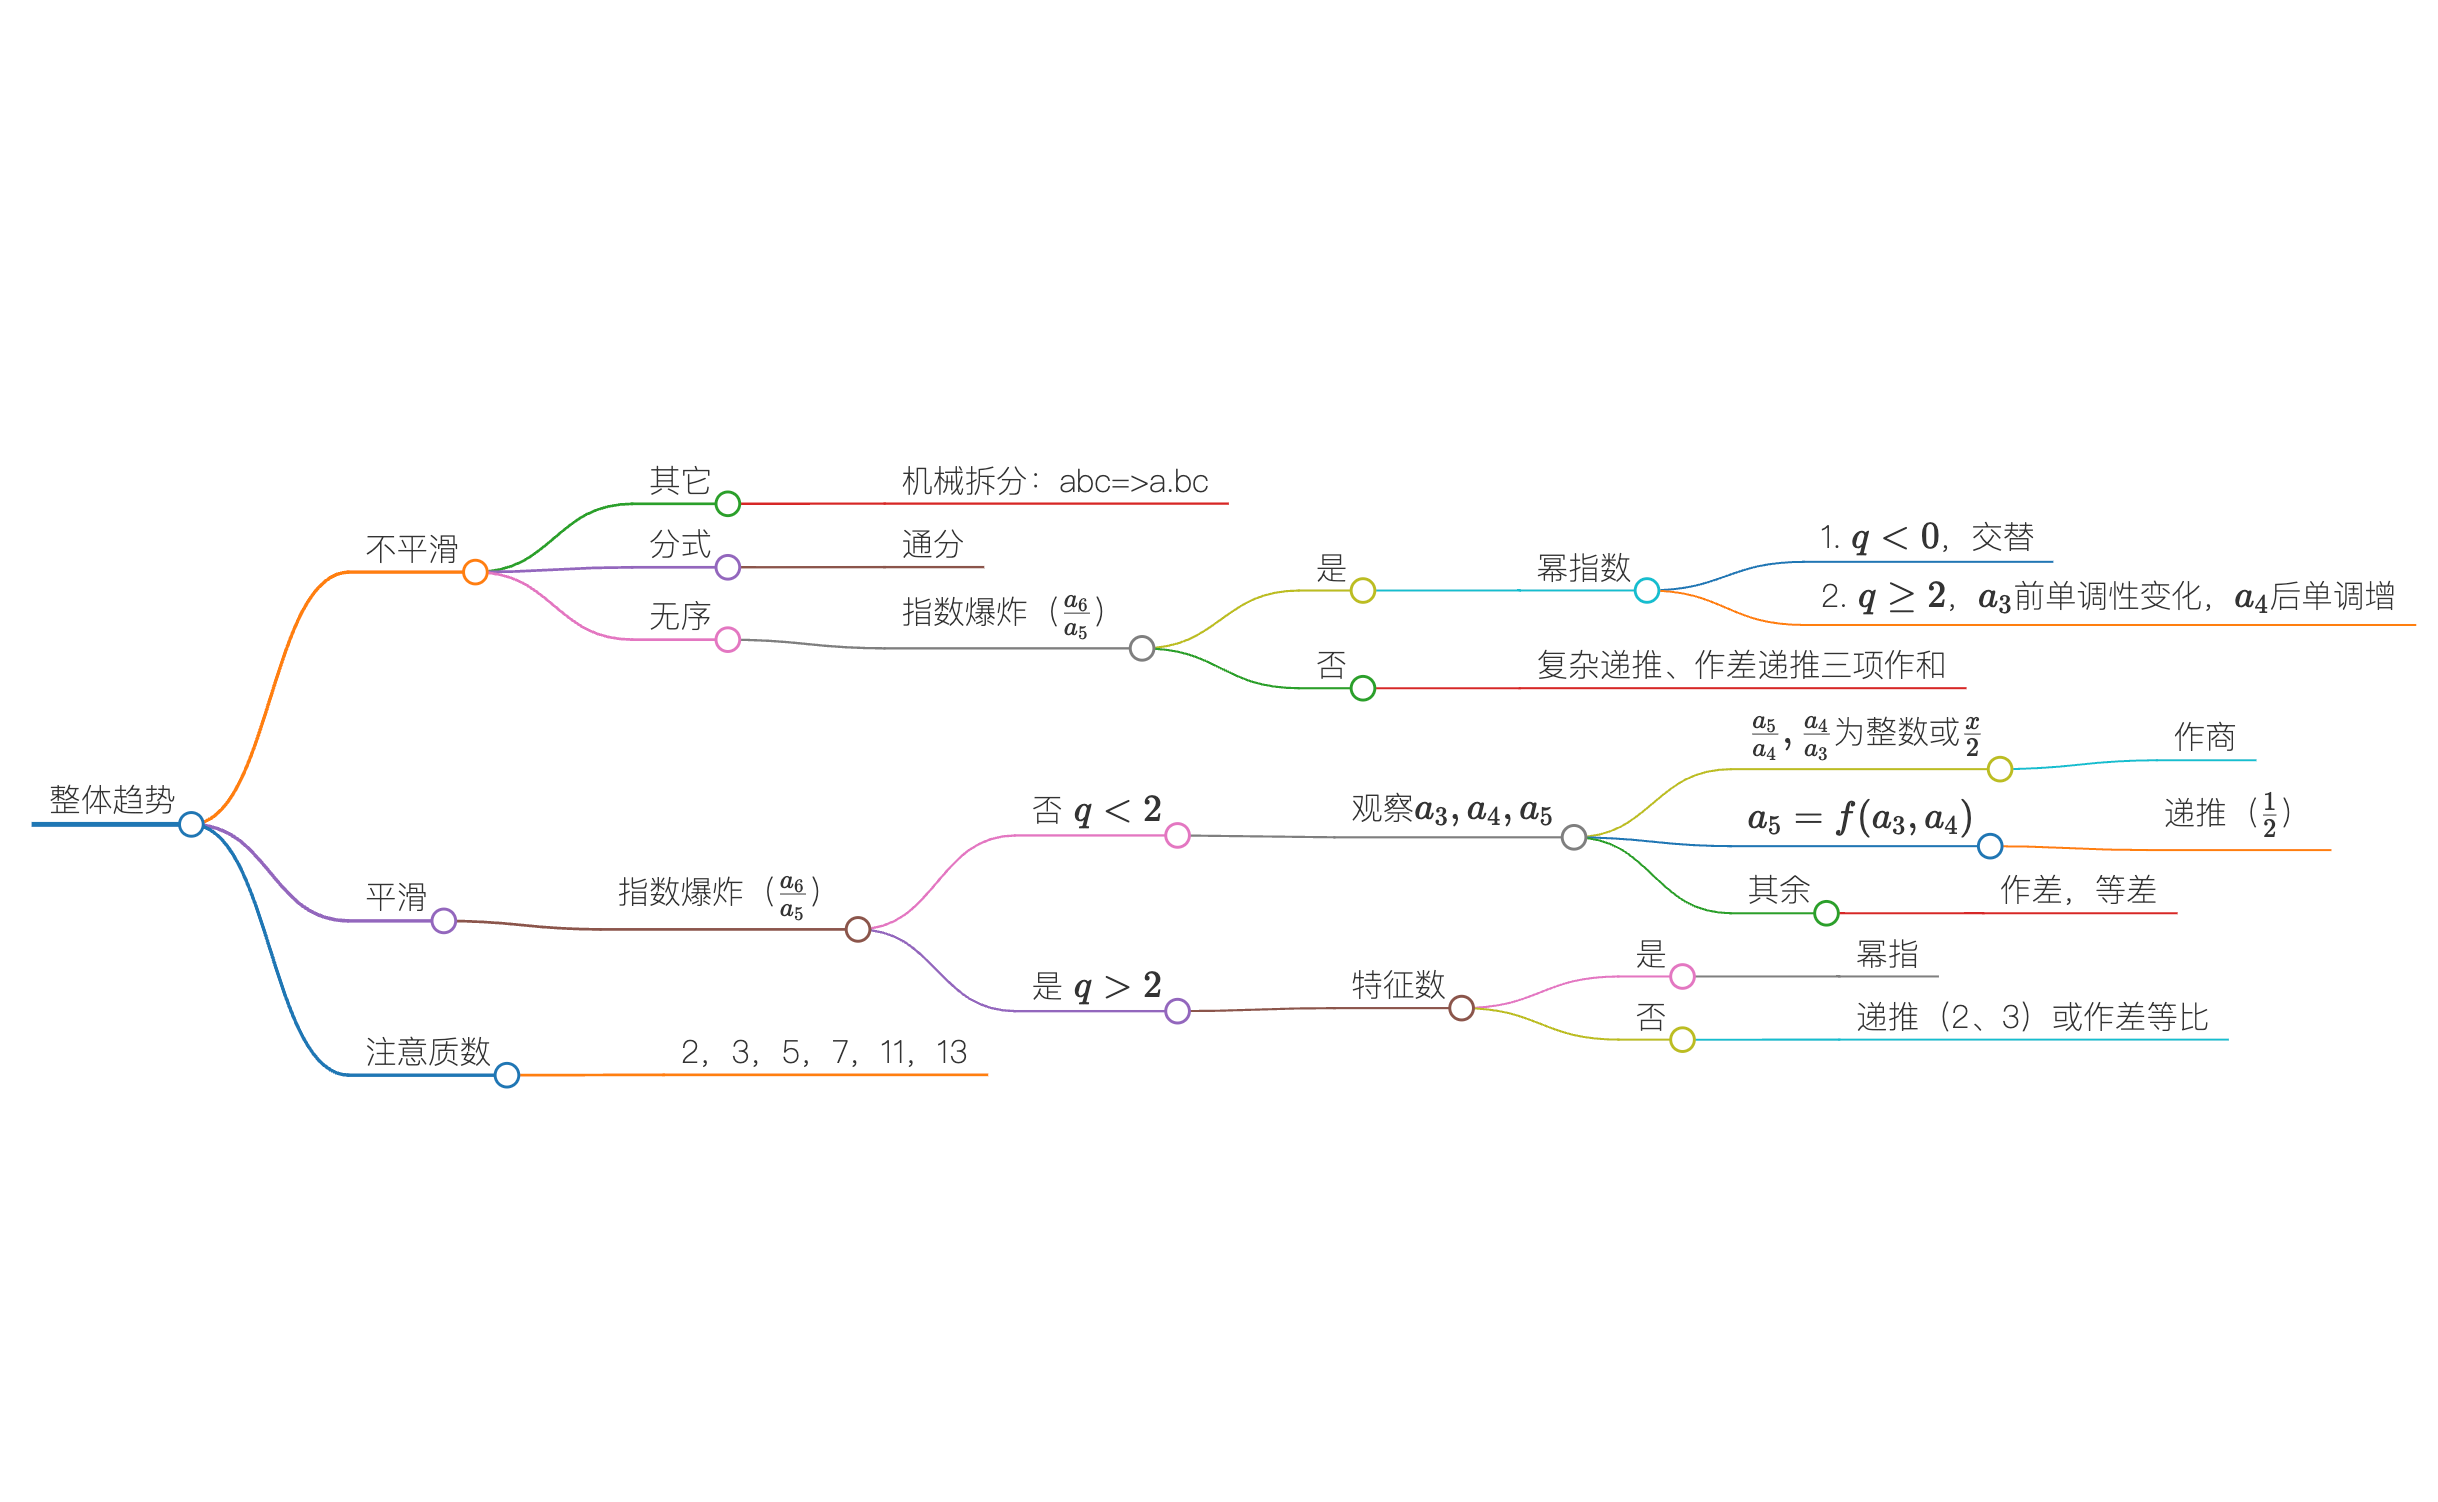
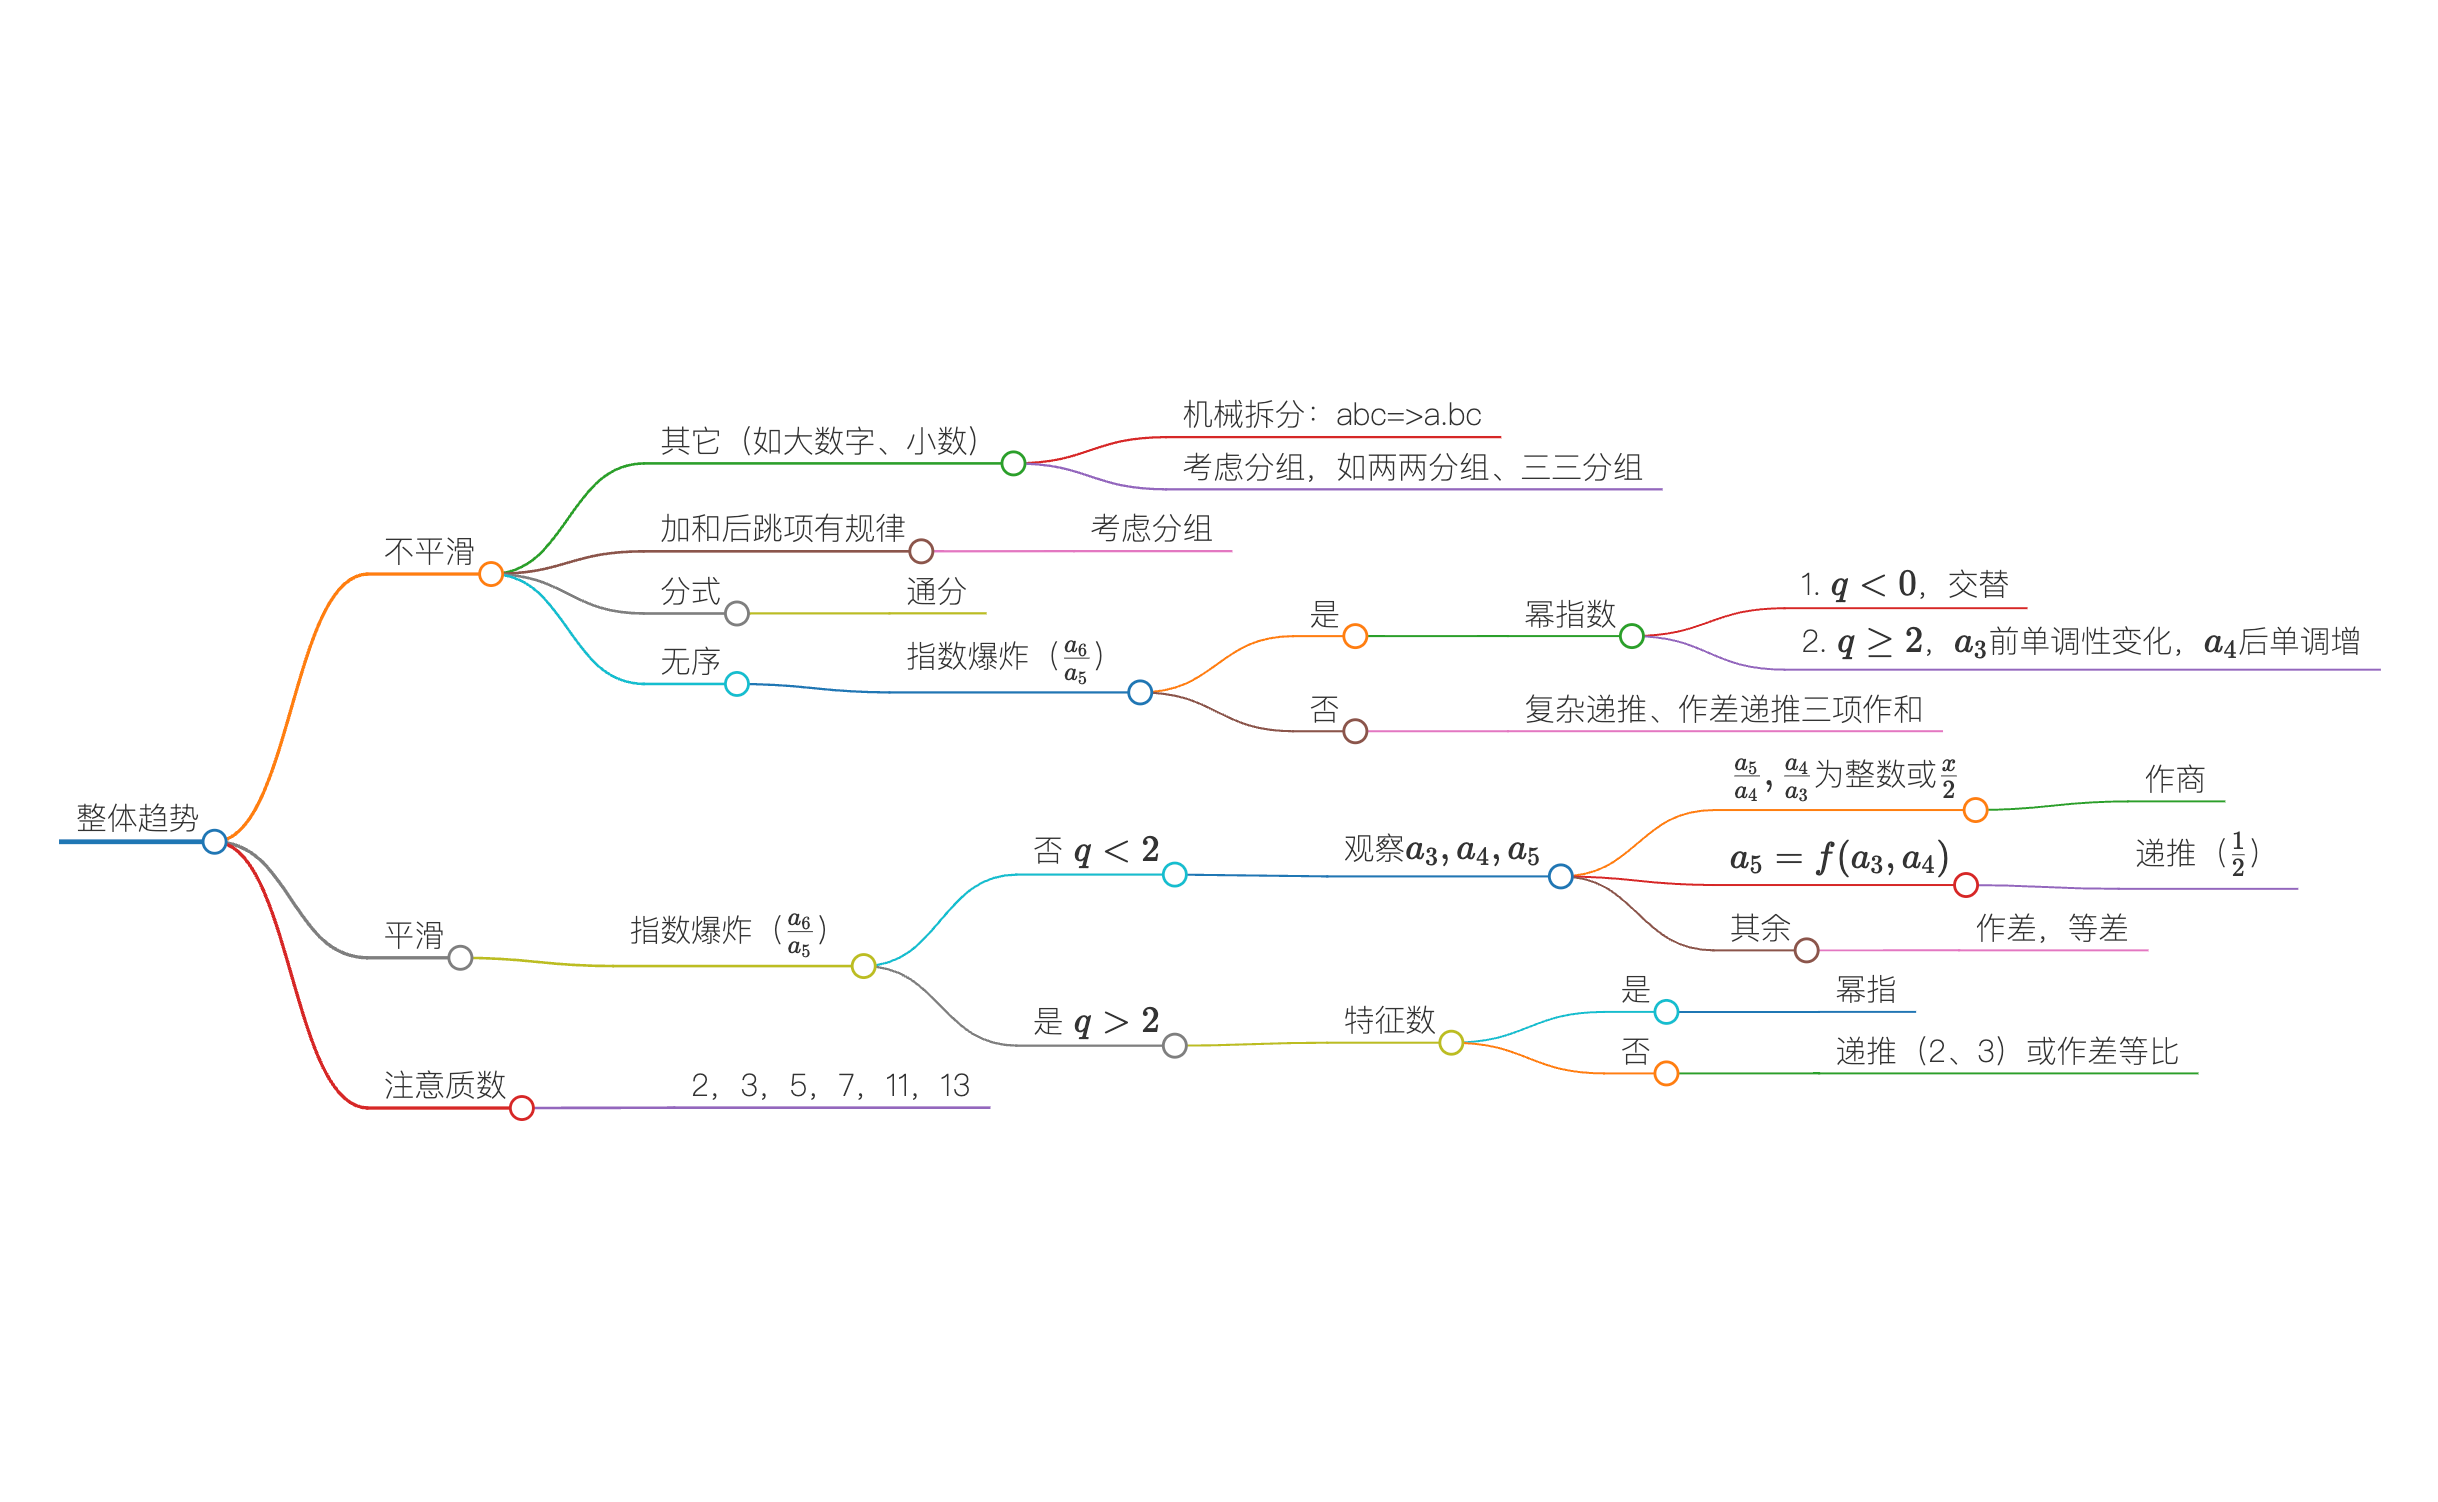
更新数字推理导图

diff --git a/数字推理.md b/数字推理.md
@@ -123,6 +123,9 @@ $$a_{n+2}=pa_{n+1}+qn$$
 ## 不平滑
 ### 其它（如大数字、小数）
 - 机械拆分：abc=>a.bc
+- 考虑分组，如两两分组、三三分组
+### 加和后跳项有规律
+- 考虑分组
 ### 分式
 - 通分
 ### 无序
